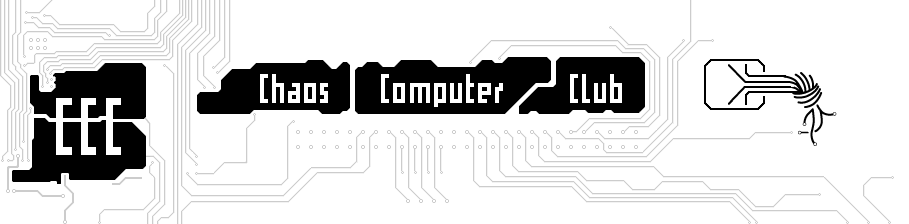
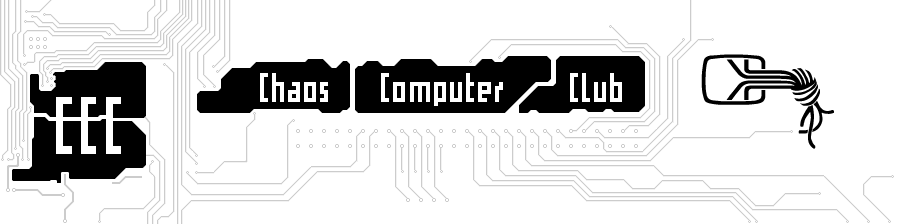
new header and different menu

diff --git a/public/stylesheets/ccc.css b/public/stylesheets/ccc.css
@@ -66,7 +66,8 @@ div#main_navigation a:hover {
 
 div#main_navigation a.active {
   color: #535353;
-  text-transform: uppercase;
+  text-decoration: underline;
+  text-transform: lowercase;
   font-size: 14px;
 }
 
